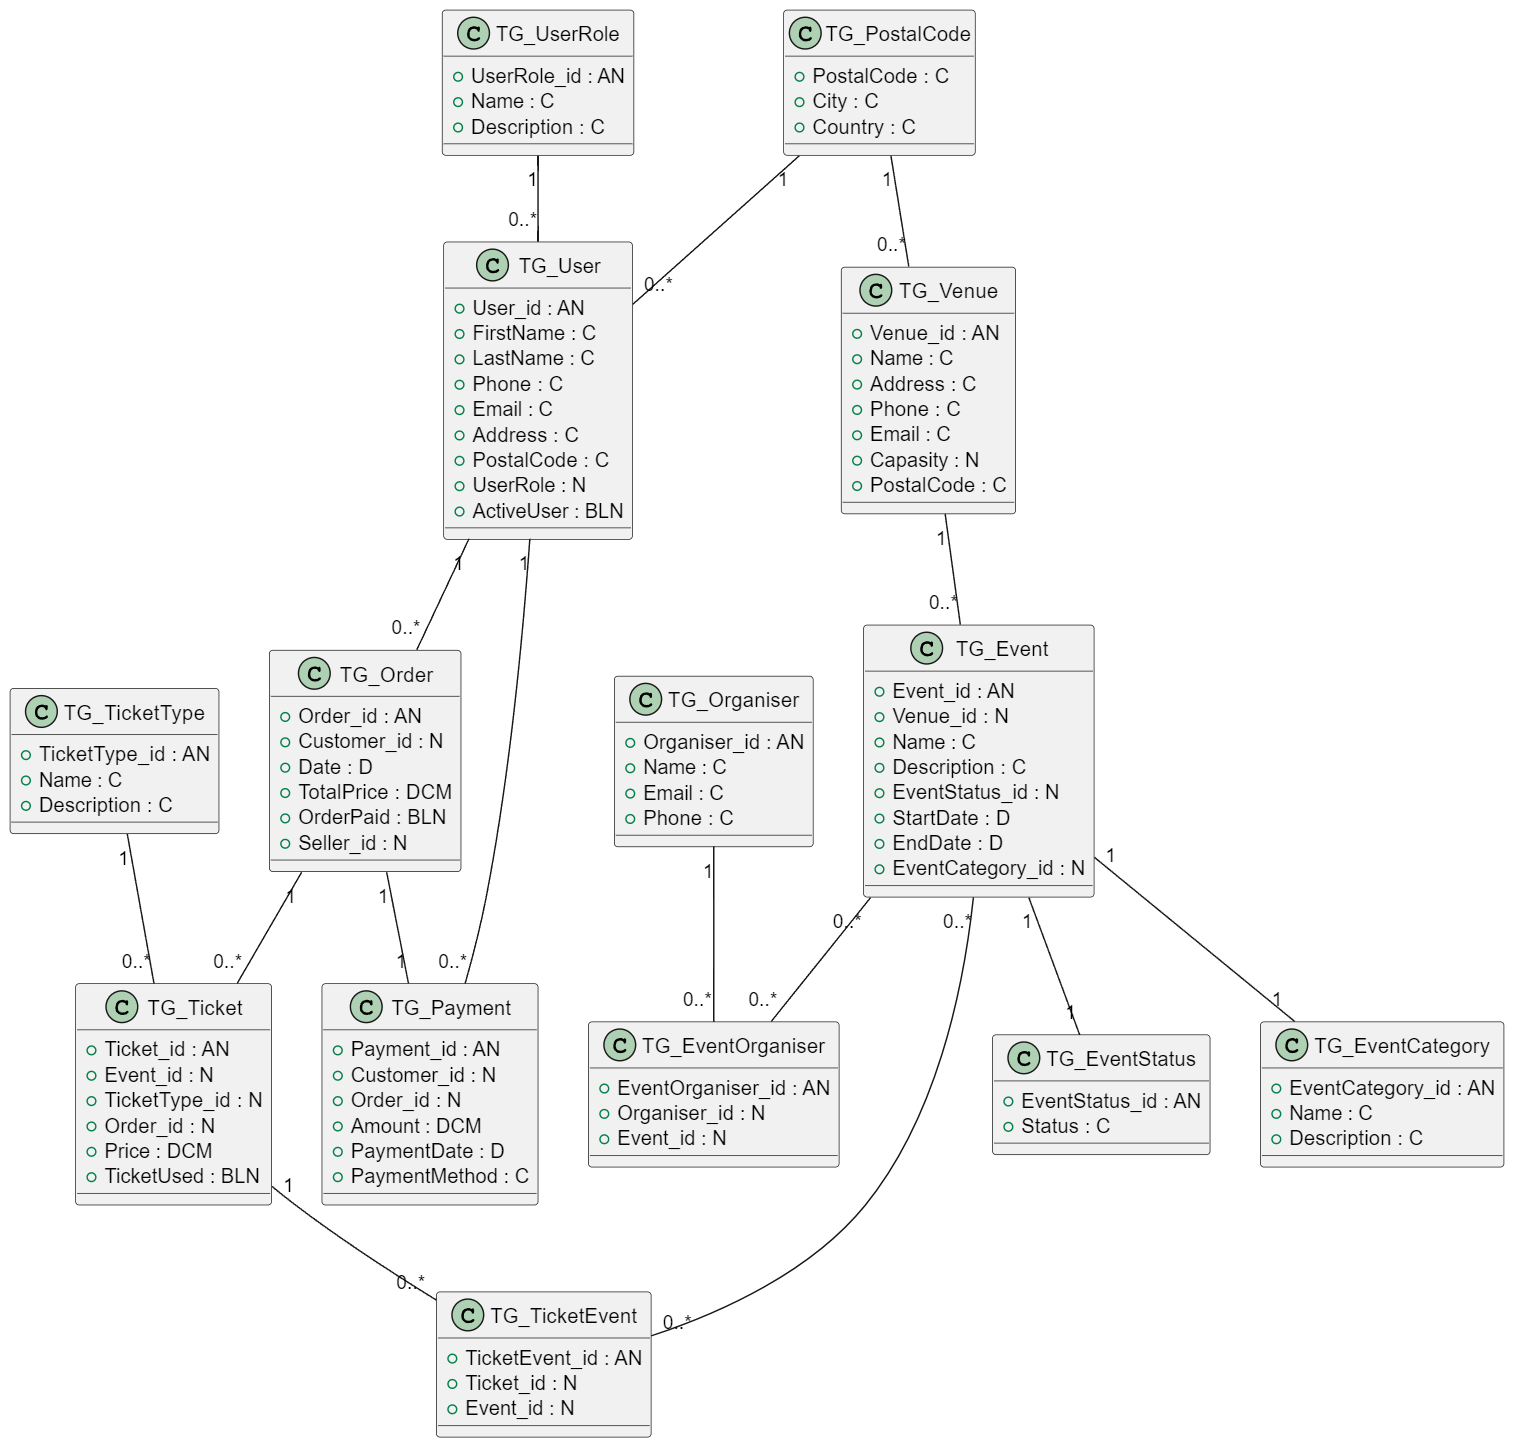
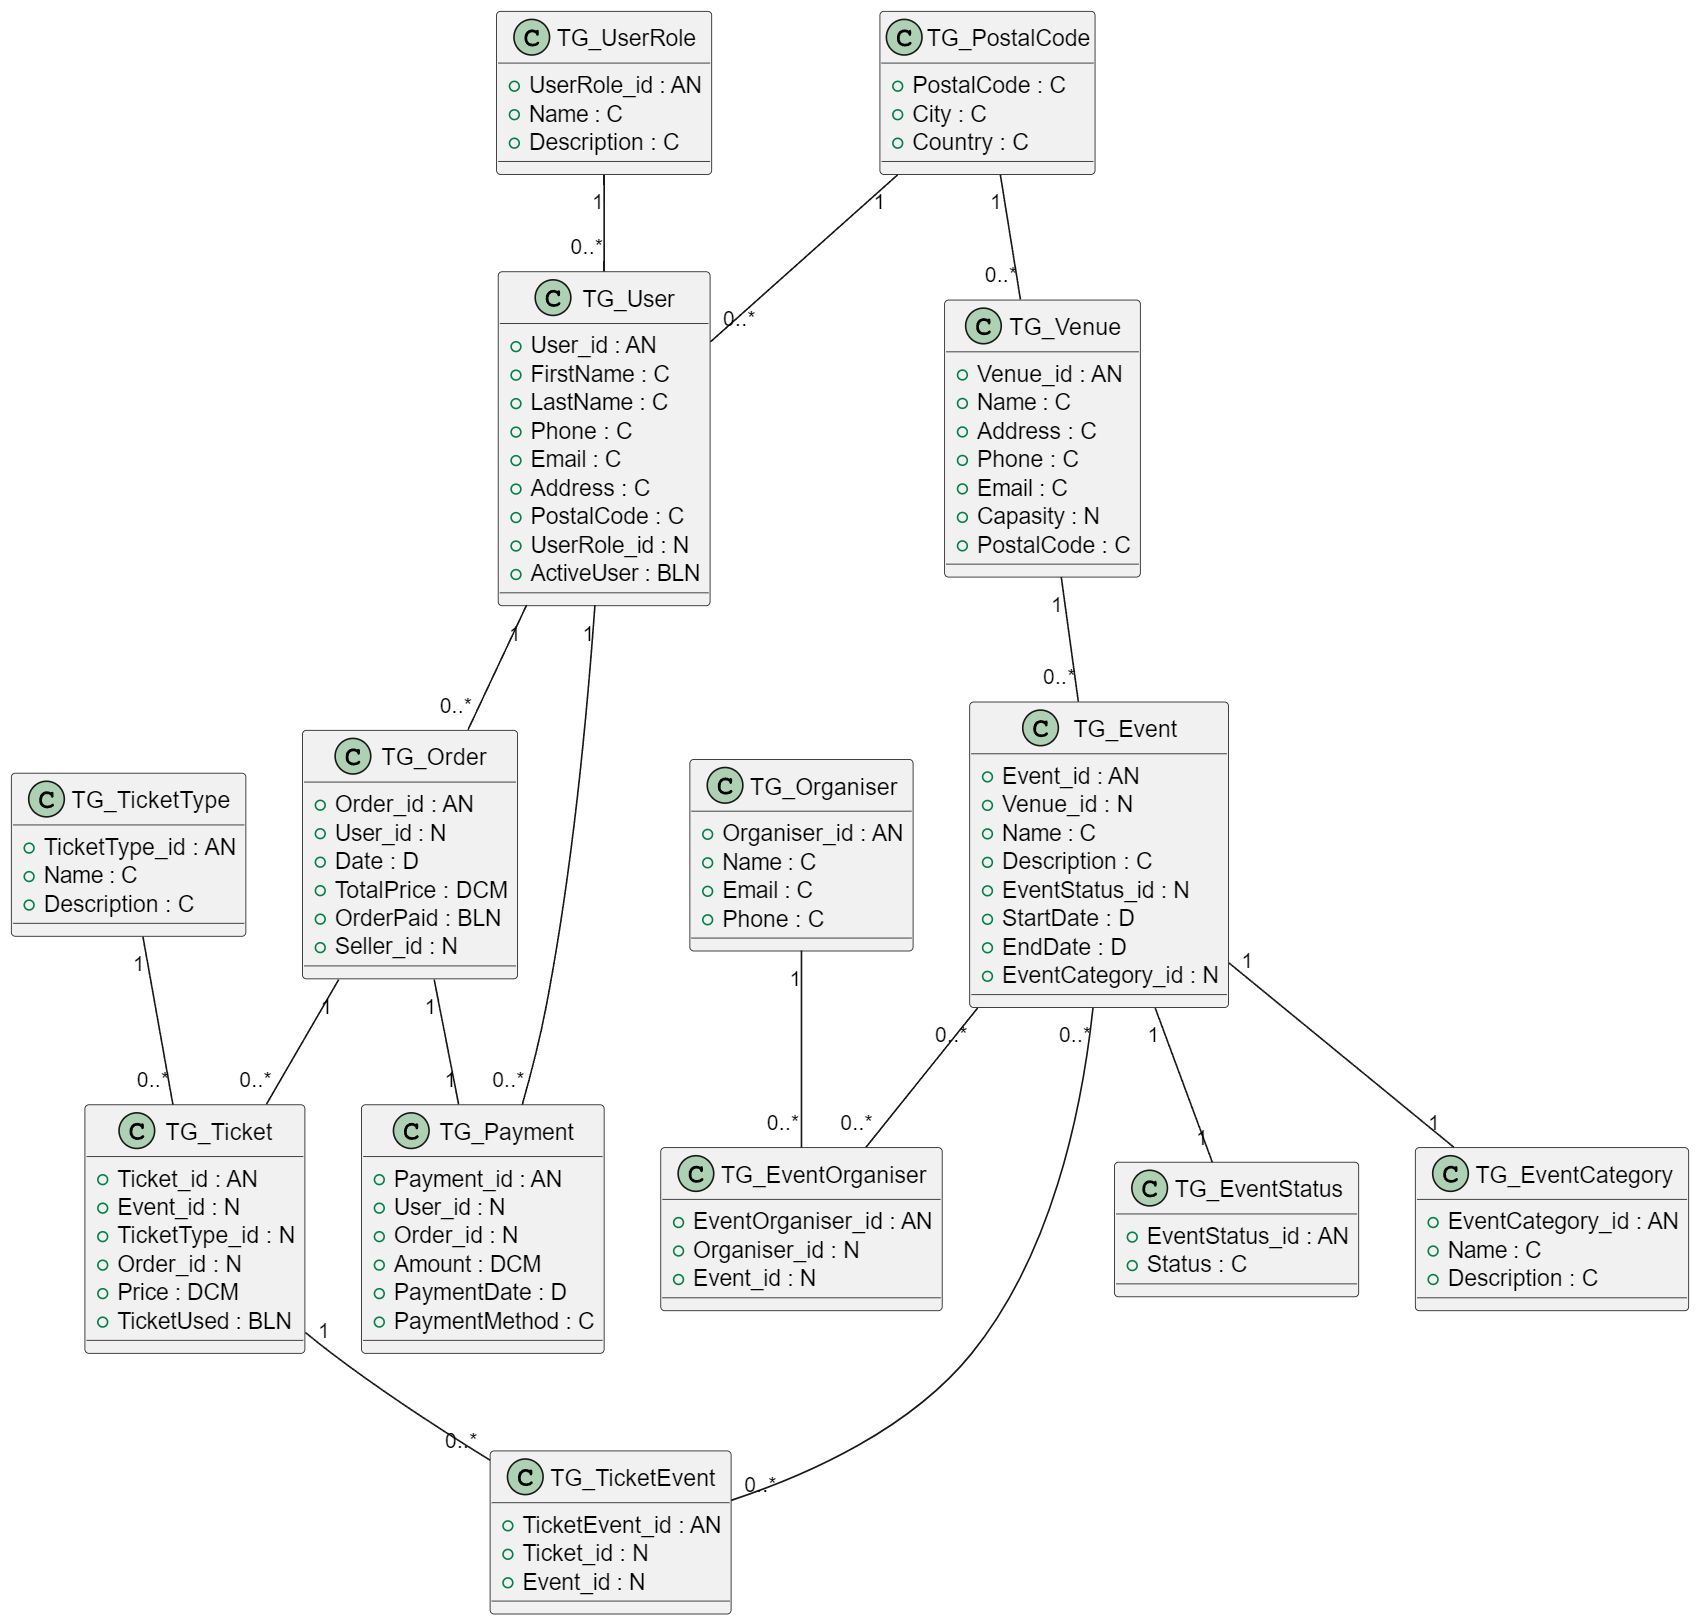
Muokattu kaaviokuvaa ja dokumentaatiota.

diff --git a/TicketGuru/README.md b/TicketGuru/README.md
@@ -76,12 +76,12 @@ TG_Venue sisältää tapahtumapaikat. TG_Venuella on OneToMany-viittaus TG_Event
 | Kenttä | Tyyppi | Kuvaus |
 |--------|--------|--------|
 | Venue_id | AN (PK)| Paikan id |
-| Name | C | Paikan nimi |
-| Address | C | Osoite |
-| Phone | C | Puhelinnumero |
-| Email | C | Sähköpostiosoite |
+| Name | C/100 | Paikan nimi |
+| Address | C/100 | Osoite |
+| Phone | C/20 | Puhelinnumero |
+| Email | C/50 | Sähköpostiosoite |
 | Capasity | N | Paikan kapasiteetti |
-| PostalCode | C | Postinumero |
+| PostalCode | C/5 | Postinumero |
 
 ### TG_Event
 TG_Event sisältää tapahtumat. TG_Eventista on ManyToMany-viittaus TG_TicketEvent- ja TG_EventOrganiser-tauluihin sekä OneToOne-viittaukset TG_EventStatus- ja TG_EventCategory-tauluihin.
@@ -90,8 +90,8 @@ TG_Event sisältää tapahtumat. TG_Eventista on ManyToMany-viittaus TG_TicketEv
 |--------|--------|--------|
 | Event_id | AN (PK) | Tapahtuman id |
 | Venue_id | N (FK) | Paikan id |
-| Name | C | Tapahtuman nimi |
-| Description | C | Kuvaus |
+| Name | C/100 | Tapahtuman nimi |
+| Description | C/1000 | Kuvaus |
 | EventStatus_id | N (FK) | Statuksen id |
 | StartDate | D | Alkamispäivä |
 | EndDate | D | Päättymispäivä |
@@ -104,37 +104,87 @@ TG_Organiser sisältää tapahtumien järjestäjät. TG_Organiserilla on ManyToM
 | Kenttä | Tyyppi | Kuvaus |
 |--------|--------|--------|
 | Organiser_id | AN (PK) | Järjestäjän id |
-| Name | C | Järjestäjän nimi |
-| Email | C | Sähköpostiosoite |
-| Phone | C | Puhelinnumero |
+| Name | C/100 | Järjestäjän nimi |
+| Email | C/50 | Sähköpostiosoite |
+| Phone | C/20 | Puhelinnumero |
 
 ### TG_Payment
 TG_Payment sisältää maksutiedot. TG_Paymentilla on ManyToOne-viittaus TG_User-tauluun.
-**tähän atribuutit taulukkona**
+
+| Kenttä | Tyyppi | Kuvaus |
+|--------|--------|--------|
+| Payment_id | AN (PK) | Maksun id |
+| Customer_id (user) | N (FK) | Asiakkaan id |
+| Order_id | N (FK) | Tilauksen id |
+| Amount | Double | Summa |
+| PaymentDate | D | Maksupäivä |
+| PaymentMethod | C/20 | Maksutapa |
 
 ### TG_Ticket
 TG_Ticket sisältää myytävät liput. TG_Ticketilla on ManyToMany-viittaus TG_TicketEvent-tauluun sekä ManyToOne-viittaukset TG_TicketType- ja TG_Order-tauluihin.
-**tähän atribuutit taulukkona**
+
+| Kenttä | Tyyppi | Kuvaus |
+|--------|--------|--------|
+| Ticket_id | AN (PK) | Lipun id |
+| Event_id | N (FK) | Tapahtuman id |
+| TicketType_id | N (FK) | Lipputyypin id |
+| Order_id | N (FK) | Tilauksen id |
+| Price | Double | Hinta |
+| TicketUsed | Boolean | Onko lippu käytetty (True / False) |
+
 
 ### TG_TicketType
 TG_TicketType sisältää eri lipputyypit. TG_TicketTypella on OneToMany-viittaus TG_Ticket-tauluun.
-**tähän atribuutit taulukkona**
+
+| Kenttä | Tyyppi | Kuvaus |
+|--------|--------|--------|
+| TicketType_id | AN (PK) | Lipputyypin id |
+| Name | C/100 | Lipputyypin nimi |
+| Description | C/500 | Kuvaus |
 
 ### TG_Order
 TG_Order sisältää tilaukset. TG_Orderilla on OneToMany-viittaus TG_Ticket-tauluun ja ManyToOne-viittaukset TG_User- ja TG_Payment-tauluihin.
-**tähän atribuutit taulukkona**
+
+| Kenttä | Tyyppi | Kuvaus |
+|--------|--------|--------|
+| Order_id | AN (PK) | Tilauksen id |
+| Customer_id | N (FK) | Asiakkaan id |
+| Date | D | Päivämäärä |
+| TotalPrice | Double | Kokonaishinta |
+| OrderPaid | Boolean | Onko tilaus maksettu (True / False) |
+| Seller_id | N (FK) | Myyjän id |
 
 ### TG_TicketEvent
 TG_TicketEvent yhdistää liput ja tapahtumat välitauluksi. TG_TicketEventilla on ManyToOne-viittaukset TG_Ticket- ja TG_Event-tauluihin.
-**tähän atribuutit taulukkona**
+
+| Kenttä | Tyyppi | Kuvaus |
+|--------|--------|--------|
+| TicketEvent_id | AN (PK) | TicketEvent id |
+| Ticket_id | N (FK) | Lipun id |
+| Event_id | N (FK) | Tapahtuman id |
 
 ### TG_UserRole
 TG_UserRole sisältää käyttäjien roolit. TG_UserRolella on OneToMany-viittaus TG_User-tauluun.
-**tähän atribuutit taulukkona**
+
+| Kenttä | Tyyppi | Kuvaus |
+|--------|--------|--------|
+| UserRole_id | AN (PK) | Käyttäjäroolin id |
+| Name | C/100 | Nimi |
+| Description | C/500 | Kuvaus |
 
 ### TG_User
 TG_User sisältää käyttäjät. TG_Userilla on OneToMany-viittaukset TG_Order- ja TG_Payment-tauluihin sekä ManyToOne-viittaukset TG_UserRole- ja TG_PostalCode-tauluihin.
-**tähän atribuutit taulukkona**
+
+| Kenttä | Tyyppi | Kuvaus |
+|--------|--------|--------|
+| User_id | AN (PK) | Käyttäjän id |
+| FirstName | C/100 | Etunimi |
+| LastName | C/100 | Sukunimi |
+| Phone | C/20 | Puhelinnumero |
+| Email | C/50 | Sähköpostiosoite |
+| Address | C/100 | Osoite |
+| PostalCode | C/5 | Postinumero |
+| UserRole_id | N (FK) | Käyttäjäroolin id
 
 ### TG_PostalCode
 TG_PostalCode sisältää postinumerot. TG_PostalCodella on OneToMany-viittaukset TG_User- ja TG_Venue-tauluihin.
